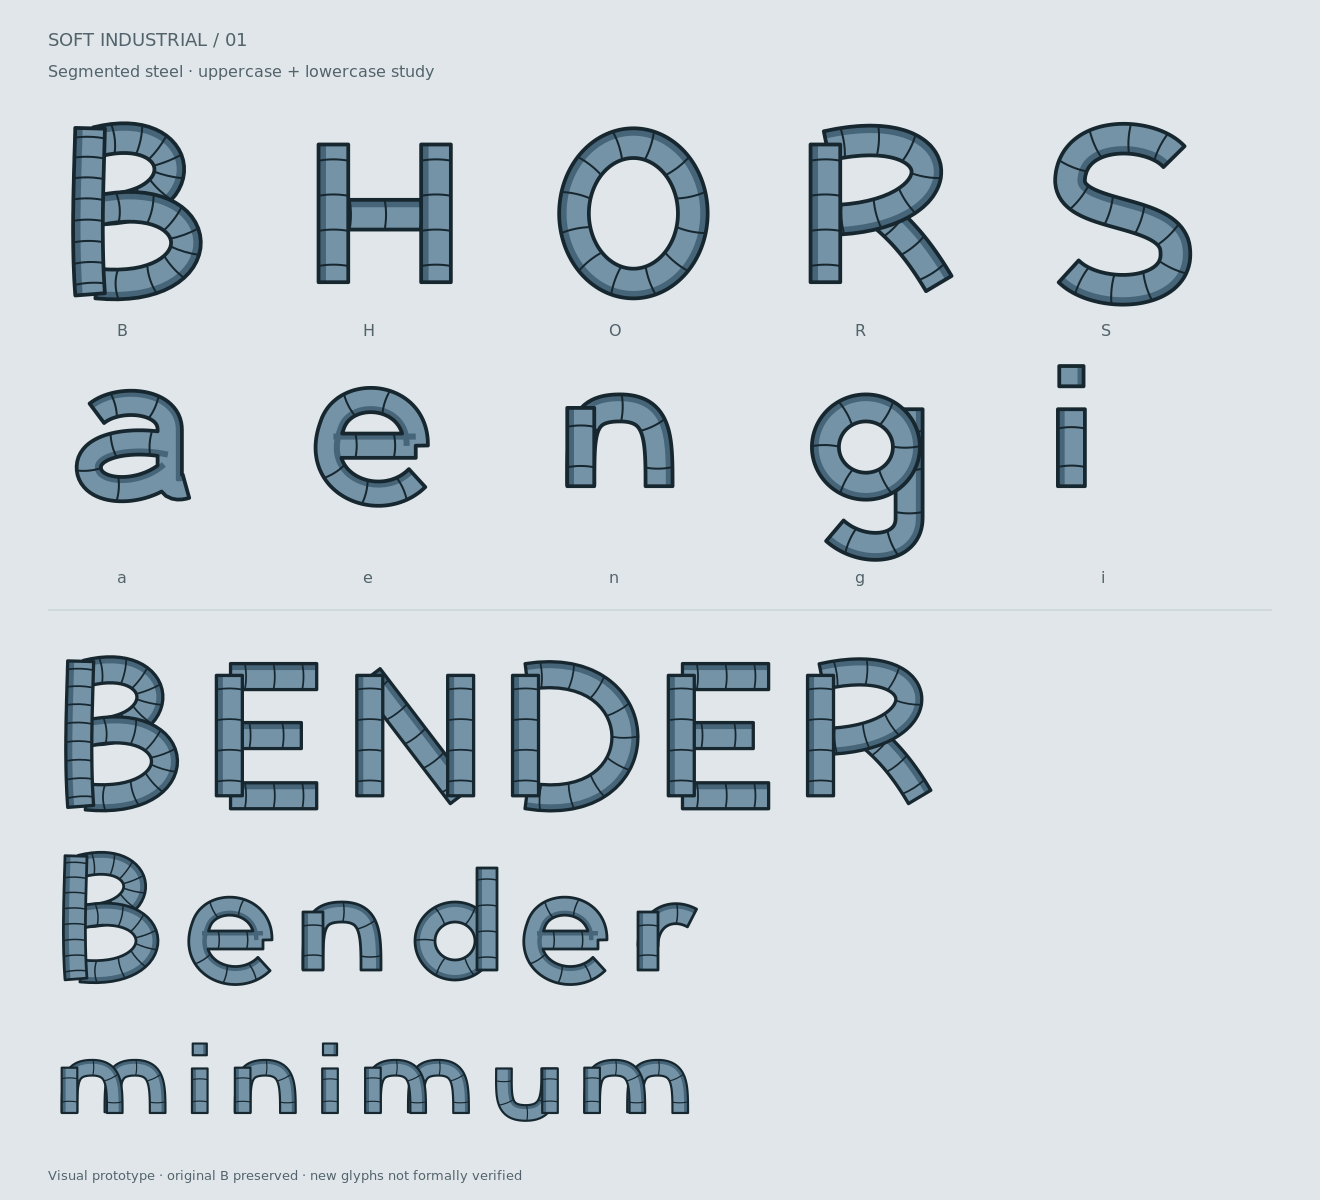
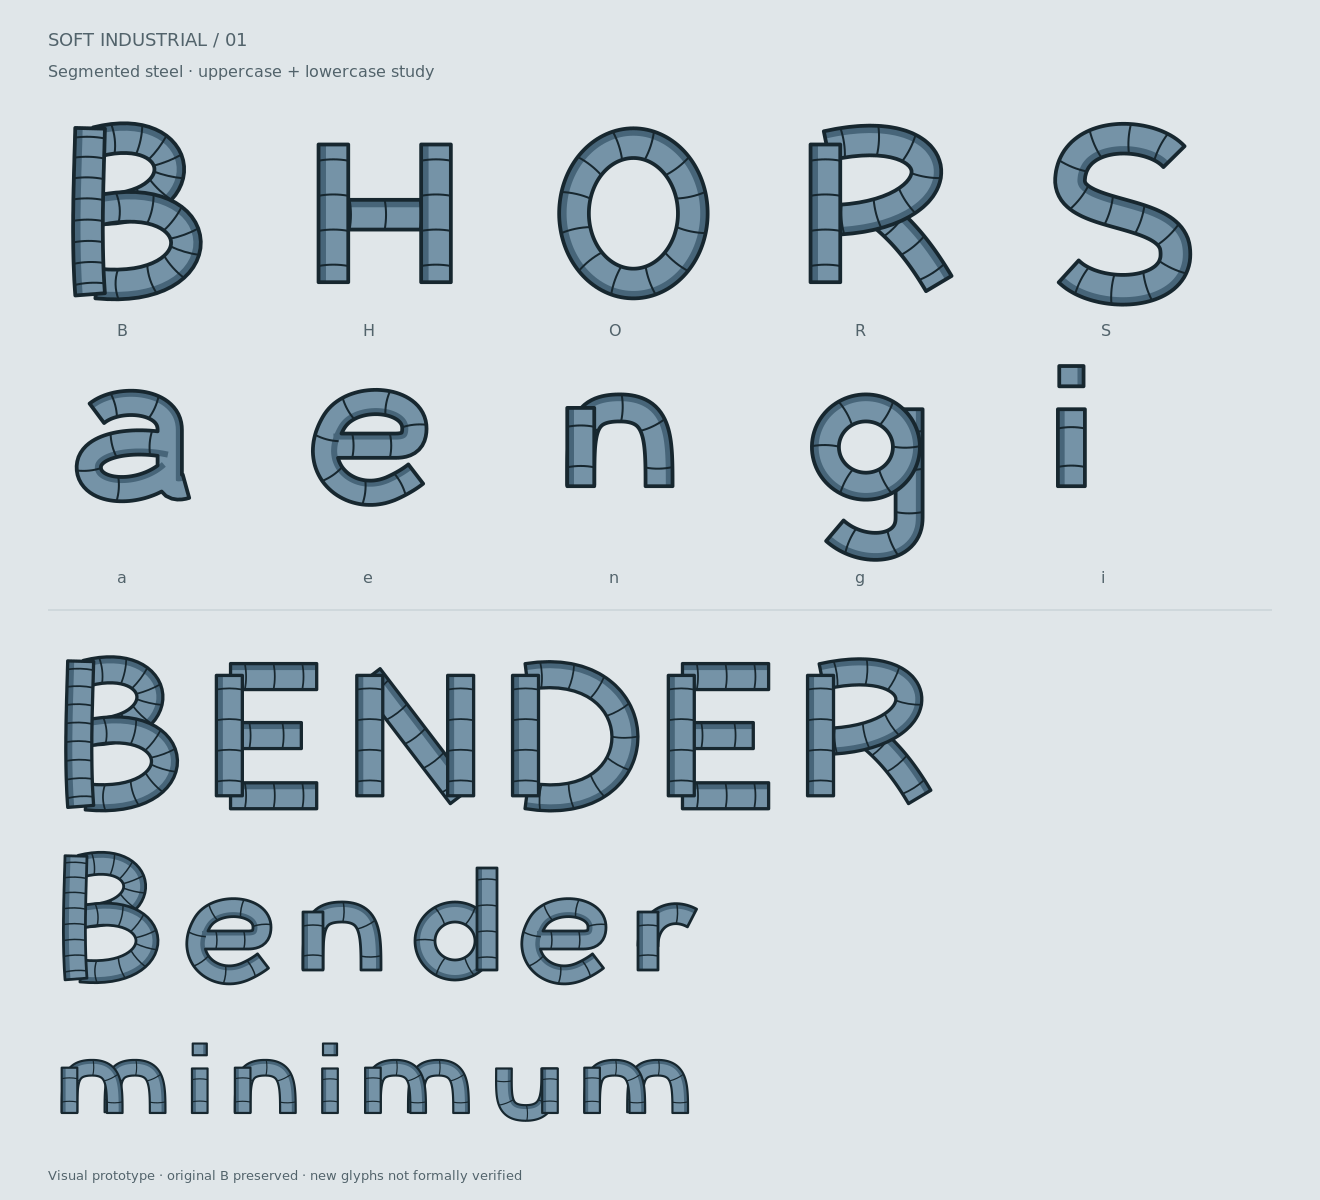
Smooth lowercase e crossbar into one continuous ribbon

Changed region(s): [[0.2174, 0.3083, 0.3417, 0.4317], [0.3727, 0.74, 0.4659, 0.8325], [0.1242, 0.74, 0.2174, 0.8325]]

diff --git a/alphabet-prototype/generate.py b/alphabet-prototype/generate.py
@@ -155,8 +155,12 @@ def glyphs():
         'b': (107, [(bowl(57), 20, 29, True), small(stem(25))]),
         'd': (107, [(bowl(), 20, 29, True), small(stem(86))]),
         'e': (105, [
-            (bezier((85, 102), ((86, 62), (32, 58), (23, 87)), ((6, 132), (60, 152), (86, 126))), 18, 29, False),
-            (line((24, 102), (85, 102)), 18, 29, False),
+            # A continuous ribbon: the crossbar turns into the arch without caps.
+            (bezier((24, 102), ((40, 102), (61, 102), (70, 102)),
+                    ((80, 102), (84, 98), (84, 89)),
+                    ((84, 66), (37, 62), (24, 85)),
+                    ((4, 119), (36, 146), (66, 134)),
+                    ((73, 131), (80, 127), (85, 123))), 18, 29, False),
         ]),
         'n': (108, [small(arch(25)), small(stem(25, 74))]),
         'g': (108, [small(bezier((86, 75), ((86, 106), (86, 140), (86, 156)), ((86, 180), (51, 183), (31, 165)))), (bowl(), 20, 29, True)]),
@@ -234,7 +238,21 @@ def main():
         comparison.append(f'<use href="#glyph-{ord(char)}" transform="translate(560 {y}) scale(1.7)"/>')
     comparison.append(label('READING CHECK / made a name', 55, 585, 16))
     comparison.append(word('made a name', 55, 603, .70)[0])
-    (HERE/'revision-02'/'comparison.svg').write_text(svg(''.join(comparison), 1040, 770))
+    if not (HERE/'revision-02'/'comparison.svg').exists():
+        (HERE/'revision-02'/'comparison.svg').write_text(svg(''.join(comparison), 1040, 770))
+    previous = ET.parse(HERE/'revision-03'/'before-e.svg').getroot()
+    for element in previous.iter():
+        if element.get('id'):
+            element.set('id', 'previous-'+element.get('id'))
+        for key, value in list(element.attrib.items()):
+            element.set(key, value.replace('url(#', 'url(#previous-'))
+    previous_body = ''.join(ET.tostring(element, encoding='unicode') for element in previous)
+    smooth_join = ['<rect width="1040" height="690" fill="#e0e6e9"/>',
+                   label('BEFORE', 55, 45, 18), label('AFTER / CONTINUOUS RIBBON', 540, 45, 18),
+                   f'<g transform="translate(65 20) scale(2.3)">{previous_body}</g>',
+                   '<use href="#glyph-101" transform="translate(550 20) scale(2.3)"/>',
+                   word('Bender', 55, 390, .78)[0], word('made a name', 55, 530, .64)[0]]
+    (HERE/'revision-03'/'comparison.svg').write_text(svg(''.join(smooth_join), 1040, 690))
     rows = []
     for title, text in [('Прописные', 'BHORS'), ('Строчные', 'aengi'), ('Проверка новых a/e', 'made a name'), ('В словах', 'BENDER'), ('Смешанный регистр', 'Bender'), ('Ритм штрихов', 'minimum')]:
         element, width = word(text)
@@ -251,7 +269,7 @@ document.getElementById('seams').addEventListener('click',e=>{const off=document
 document.getElementById('background').addEventListener('click',e=>{const dark=document.body.classList.toggle('dark');e.target.textContent=dark?'Светлый фон':'Тёмный фон'});
 </script></html>'''
     page = page.replace('<main>', '<svg xmlns="http://www.w3.org/2000/svg" width="0" height="0" style="position:absolute" aria-hidden="true">'+DEFS+'</svg><main>', 1)
-    page = page.replace('Скачать лист SVG</a>', 'Скачать лист SVG</a> · <a href="revision-02/comparison.png">a/e: до и после</a>', 1)
+    page = page.replace('Скачать лист SVG</a>', 'Скачать лист SVG</a> · <a href="revision-03/comparison.png">e: плавный стык</a> · <a href="revision-02/comparison.png">a/e: первая переделка</a>', 1)
     (HERE/'index.html').write_text(page)
     print(f'Generated {len(FORMS)} glyphs, specimen.svg and index.html in {HERE}')
 

diff --git a/alphabet-prototype/README.md b/alphabet-prototype/README.md
@@ -15,6 +15,7 @@ Open `index.html` directly, or inspect `specimen.svg` and `specimen.png`.
 The page includes `BENDER`, `Bender`, `minimum`, size adjustment, seam toggle
 and light/dark backgrounds. Each glyph also has a standalone SVG in `glyphs/`.
 The revised `a/e` also appear in `made a name` and `revision-02/comparison.svg`.
+The latest `e` join is shown in `revision-03/comparison.svg`.
 
 Optional PNG regeneration (CairoSVG installed outside the project by uv):
 
@@ -36,5 +37,11 @@ crossbar appeared behind the arch; the two ribbons now share one contour,
 the bar is painted last and the arch is higher for a larger eye. Neither
 letter has separate end-cap outlines or seams through its junction. Original
 glyphs are preserved in `revision-02/before-a.svg` and `before-e.svg`.
+
+Revision 03 preserves the accepted `a` and replaces `e`'s two joined arms
+with one continuous centerline. The crossbar turns smoothly into the upper
+arch, removing the stepped silhouette and discontinuous shadow on the right.
+`revision-03/before-e.svg` preserves the rejected join; the comparison includes
+the revised letter at large size and in `Bender` / `made a name`.
 
 Preserved on `design/soft-industrial-alphabet`, outside `main`.
